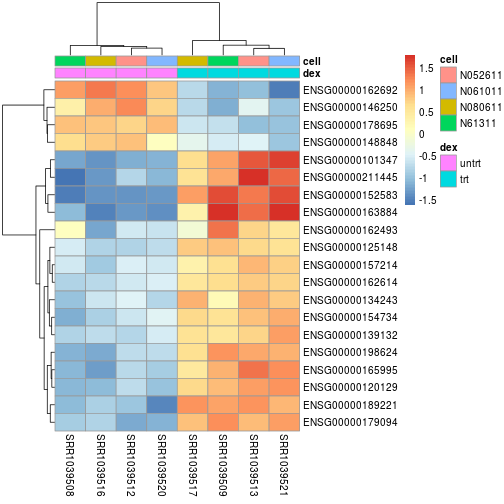
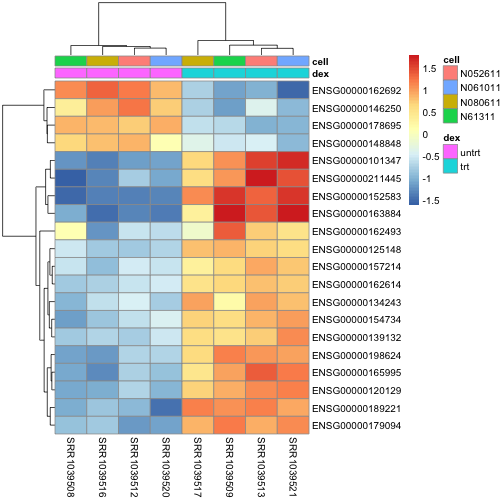
adding rnaseq_gene_level to book

Changed region(s): [[0.0, 0.0, 1.0, 1.0]]

diff --git a/pages/rnaseq_gene_level.md b/pages/rnaseq_gene_level.md
@@ -34,23 +34,8 @@ Next we create an *Rsamtools* variable which wraps our BAM files, and create a t
 
 ```r
 library(Rsamtools)
-```
-
-```
-## Loading required package: XVector
-## Loading required package: Biostrings
-```
-
-```r
 bam.list <- BamFileList(bam.files)
 library(GenomicFeatures)
-```
-
-```
-## Loading required package: AnnotationDbi
-```
-
-```r
 # for Bioc 3.0 use the commented out line
 # txdb <- makeTranscriptDbFromGFF(gtf.file, format="gtf")
 txdb <- makeTxDbFromGFF(gtf.file, format="gtf")
@@ -87,20 +72,8 @@ A similar function in the *Rsubread* library can be used to construct a count ma
 
 ```r
 library(Rsubread)
-```
-
-```
-## 
-## Attaching package: 'Rsubread'
-## 
-## The following object is masked from 'package:DEXSeq':
-## 
-##     featureCounts
-```
-
-```r
 # just run on the first two samples for demonstration
-fc <- featureCounts(bam.files[1:2], annot.ext=gtf.file,
+fc <- featureCounts(bam.files, annot.ext=gtf.file,
                     isGTFAnnotationFile=TRUE, 
                     isPaired=TRUE)
 ```
@@ -117,7 +90,13 @@ fc <- featureCounts(bam.files[1:2], annot.ext=gtf.file,
 ## 
 ## //========================== featureCounts setting ===========================\\
 ## ||                                                                            ||
-## ||             Input files : 2 BAM files                                      ||
+## ||             Input files : 8 BAM files                                      ||
+## ||                           P /Users/michael/Library/R/3.2/library/airwa ... ||
+## ||                           P /Users/michael/Library/R/3.2/library/airwa ... ||
+## ||                           P /Users/michael/Library/R/3.2/library/airwa ... ||
+## ||                           P /Users/michael/Library/R/3.2/library/airwa ... ||
+## ||                           P /Users/michael/Library/R/3.2/library/airwa ... ||
+## ||                           P /Users/michael/Library/R/3.2/library/airwa ... ||
 ## ||                           P /Users/michael/Library/R/3.2/library/airwa ... ||
 ## ||                           P /Users/michael/Library/R/3.2/library/airwa ... ||
 ## ||                                                                            ||
@@ -163,6 +142,72 @@ fc <- featureCounts(bam.files[1:2], annot.ext=gtf.file,
 ## ||    Input was converted to a format accepted by featureCounts.              ||
 ## ||    Total fragments : 7200                                                  ||
 ## ||    Successfully assigned fragments : 6712 (93.2%)                          ||
+## ||    Running time : 0.14 minutes                                             ||
+## ||                                                                            ||
+## || Process BAM file /Users/michael/Library/R/3.2/library/airway/extdata/S ... ||
+## ||    Paired-end reads are included.                                          ||
+## ||    Assign fragments (read pairs) to features...                            ||
+## ||    Found reads that are not properly paired.                               ||
+## ||    (missing mate or the mate is not the next read)                         ||
+## ||    2 reads have missing mates.                                             ||
+## ||    Input was converted to a format accepted by featureCounts.              ||
+## ||    Total fragments : 8536                                                  ||
+## ||    Successfully assigned fragments : 7910 (92.7%)                          ||
+## ||    Running time : 0.14 minutes                                             ||
+## ||                                                                            ||
+## || Process BAM file /Users/michael/Library/R/3.2/library/airway/extdata/S ... ||
+## ||    Paired-end reads are included.                                          ||
+## ||    Assign fragments (read pairs) to features...                            ||
+## ||    Found reads that are not properly paired.                               ||
+## ||    (missing mate or the mate is not the next read)                         ||
+## ||    1 read has missing mates.                                               ||
+## ||    Input was converted to a format accepted by featureCounts.              ||
+## ||    Total fragments : 7544                                                  ||
+## ||    Successfully assigned fragments : 7044 (93.4%)                          ||
+## ||    Running time : 0.14 minutes                                             ||
+## ||                                                                            ||
+## || Process BAM file /Users/michael/Library/R/3.2/library/airway/extdata/S ... ||
+## ||    Paired-end reads are included.                                          ||
+## ||    Assign fragments (read pairs) to features...                            ||
+## ||    Found reads that are not properly paired.                               ||
+## ||    (missing mate or the mate is not the next read)                         ||
+## ||    2 reads have missing mates.                                             ||
+## ||    Input was converted to a format accepted by featureCounts.              ||
+## ||    Total fragments : 8818                                                  ||
+## ||    Successfully assigned fragments : 8261 (93.7%)                          ||
+## ||    Running time : 0.13 minutes                                             ||
+## ||                                                                            ||
+## || Process BAM file /Users/michael/Library/R/3.2/library/airway/extdata/S ... ||
+## ||    Paired-end reads are included.                                          ||
+## ||    Assign fragments (read pairs) to features...                            ||
+## ||    Found reads that are not properly paired.                               ||
+## ||    (missing mate or the mate is not the next read)                         ||
+## ||    6 reads have missing mates.                                             ||
+## ||    Input was converted to a format accepted by featureCounts.              ||
+## ||    Total fragments : 11850                                                 ||
+## ||    Successfully assigned fragments : 11148 (94.1%)                         ||
+## ||    Running time : 0.16 minutes                                             ||
+## ||                                                                            ||
+## || Process BAM file /Users/michael/Library/R/3.2/library/airway/extdata/S ... ||
+## ||    Paired-end reads are included.                                          ||
+## ||    Assign fragments (read pairs) to features...                            ||
+## ||    Found reads that are not properly paired.                               ||
+## ||    (missing mate or the mate is not the next read)                         ||
+## ||    6 reads have missing mates.                                             ||
+## ||    Input was converted to a format accepted by featureCounts.              ||
+## ||    Total fragments : 5877                                                  ||
+## ||    Successfully assigned fragments : 5415 (92.1%)                          ||
+## ||    Running time : 0.14 minutes                                             ||
+## ||                                                                            ||
+## || Process BAM file /Users/michael/Library/R/3.2/library/airway/extdata/S ... ||
+## ||    Paired-end reads are included.                                          ||
+## ||    Assign fragments (read pairs) to features...                            ||
+## ||    Found reads that are not properly paired.                               ||
+## ||    (missing mate or the mate is not the next read)                         ||
+## ||    3 reads have missing mates.                                             ||
+## ||    Input was converted to a format accepted by featureCounts.              ||
+## ||    Total fragments : 10208                                                 ||
+## ||    Successfully assigned fragments : 9538 (93.4%)                          ||
 ## ||    Running time : 0.13 minutes                                             ||
 ## ||                                                                            ||
 ## ||                         Read assignment finished.                          ||
@@ -183,27 +228,27 @@ unname(fc$counts) # hide the colnames
 ```
 
 ```
-##       [,1] [,2]
-##  [1,]    0    0
-##  [2,]    0    0
-##  [3,]    0    0
-##  [4,]    0    0
-##  [5,] 2673 2031
-##  [6,]   38   28
-##  [7,]   58   55
-##  [8,] 1004 1253
-##  [9,] 1060 1291
-## [10,]    2    1
-## [11,]    2    0
-## [12,] 1588 1745
-## [13,]    1    0
-## [14,]    1    0
-## [15,]    0    0
-## [16,]    4   50
-## [17,]    0    0
-## [18,]    0    0
-## [19,]  218  257
-## [20,]    0    1
+##       [,1] [,2] [,3] [,4] [,5] [,6] [,7] [,8]
+##  [1,]    0    0    4    1    0    0    1    0
+##  [2,]    0    0    1    0    0    0    0    0
+##  [3,]    0    0    0    0    0    0    0    0
+##  [4,]    0    0    0    0    0    0    0    0
+##  [5,] 2673 2031 3263 1570 3446 3615 2171 1949
+##  [6,]   38   28   66   24   42   41   47   36
+##  [7,]   58   55   55   42   53   54   50   43
+##  [8,] 1004 1253 1122 1313 1100 1879  745 1534
+##  [9,] 1060 1291 1360 1286 1201 1725  917 1940
+## [10,]    2    1    2    1    2    7    1    4
+## [11,]    2    0    6    7    1    7    1    6
+## [12,] 1588 1745 1778 2007 2146 3349 1262 2561
+## [13,]    1    0    0    1    0    0    0    0
+## [14,]    1    0    0    0    0    0    0    0
+## [15,]    0    0    0    0    0    0    0    0
+## [16,]    4   50   19  543    1   10   14 1067
+## [17,]    0    0    0    1    0    0    0    0
+## [18,]    0    0    0    0    0    0    0    0
+## [19,]  218  257  234  248  267  461  206  398
+## [20,]    0    1    0    0    2    0    0    0
 ```
 
 Plot the first column from each function against each other (after matching the rows of the *featureCounts* matrix to the one returned by *summarizeOverlaps*.
@@ -329,13 +374,6 @@ This code chunk is not necessary, but helps to make nicer plots below with large
 # library(devtools)
 # install_github("ririzarr/rafalib")
 library(rafalib)
-```
-
-```
-## Loading required package: RColorBrewer
-```
-
-```r
 mypar()
 ```
 
@@ -363,13 +401,9 @@ We can also make a *DESeqDataSet* from a count matrix and column data.
 
 
 ```r
-dds2 <- DESeqDataSetFromMatrix(fc$counts, 
-                               colData=sample.table, 
-                               design=~ cell + dex)
-```
-
-```
-## Error in validObject(.Object): invalid class "SummarizedExperiment" object: 'colData' nrow differs from 'assays' ncol
+dds.fc <- DESeqDataSetFromMatrix(fc$counts, 
+                                 colData=sample.table, 
+                                 design=~ cell + dex)
 ```
 
 ### Normalization for sequencing depth
@@ -893,13 +927,6 @@ A heatmap of the top genes:
 
 ```r
 library(pheatmap)
-```
-
-```
-## Error in library(pheatmap): there is no package called 'pheatmap'
-```
-
-```r
 topgenes <- head(rownames(resSort),20)
 mat <- assay(rld)[topgenes,]
 mat <- mat - rowMeans(mat)
@@ -907,9 +934,7 @@ df <- as.data.frame(colData(dds)[,c("dex","cell")])
 pheatmap(mat, annotation_col=df)
 ```
 
-```
-## Error in eval(expr, envir, enclos): could not find function "pheatmap"
-```
+![plot of chunk unnamed-chunk-44](figure/rnaseq_gene_level-unnamed-chunk-44-1.png) 
 
 ### Getting alternate annotations
 
@@ -918,13 +943,6 @@ We can then check the annotation of these highly significant genes:
 
 ```r
 library(org.Hs.eg.db)
-```
-
-```
-## Loading required package: DBI
-```
-
-```r
 keytypes(org.Hs.eg.db)
 ```
 
@@ -1042,33 +1060,6 @@ If we suppose that we didn't know about the different cell-lines in the experime
 
 ```r
 library(sva)
-```
-
-```
-## Loading required package: mgcv
-## Loading required package: nlme
-## 
-## Attaching package: 'nlme'
-## 
-## The following object is masked from 'package:Biostrings':
-## 
-##     collapse
-## 
-## The following object is masked from 'package:IRanges':
-## 
-##     collapse
-## 
-## This is mgcv 1.8-6. For overview type 'help("mgcv-package")'.
-## Loading required package: genefilter
-## 
-## Attaching package: 'genefilter'
-## 
-## The following object is masked from 'package:base':
-## 
-##     anyNA
-```
-
-```r
 idx <- rowMeans(counts(dds)) > 1
 dat <- counts(dds)[idx,]
 mod <- model.matrix(~ dex, colData(dds))
@@ -1131,24 +1122,24 @@ sessionInfo()
 ## [8] methods   base     
 ## 
 ## other attached packages:
-##  [1] sva_3.14.0              genefilter_1.50.0      
-##  [3] mgcv_1.8-6              nlme_3.1-120           
-##  [5] org.Hs.eg.db_3.1.2      RSQLite_1.0.0          
-##  [7] DBI_0.3.1               ggplot2_1.0.1          
-##  [9] vsn_3.36.0              rafalib_0.0.9          
-## [11] RColorBrewer_1.1-2      Rsubread_1.18.0        
-## [13] GenomicAlignments_1.4.1 GenomicFeatures_1.20.0 
-## [15] AnnotationDbi_1.30.1    Rsamtools_1.20.1       
-## [17] Biostrings_2.36.0       XVector_0.8.0          
-## [19] airway_0.102.0          DEXSeq_1.14.0          
-## [21] DESeq2_1.8.0            RcppArmadillo_0.5.000.0
-## [23] Rcpp_0.11.5             GenomicRanges_1.20.3   
-## [25] GenomeInfoDb_1.4.0      IRanges_2.2.1          
-## [27] S4Vectors_0.6.0         Biobase_2.28.0         
-## [29] BiocGenerics_0.14.0     BiocParallel_1.2.1     
-## [31] pasilla_0.8.0           testthat_0.9.1         
-## [33] devtools_1.7.0          knitr_1.10             
-## [35] BiocInstaller_1.18.1   
+##  [1] pheatmap_1.0.2          sva_3.14.0             
+##  [3] genefilter_1.50.0       mgcv_1.8-6             
+##  [5] nlme_3.1-120            org.Hs.eg.db_3.1.2     
+##  [7] RSQLite_1.0.0           DBI_0.3.1              
+##  [9] ggplot2_1.0.1           vsn_3.36.0             
+## [11] rafalib_0.0.9           RColorBrewer_1.1-2     
+## [13] Rsubread_1.18.0         GenomicAlignments_1.4.1
+## [15] GenomicFeatures_1.20.0  AnnotationDbi_1.30.1   
+## [17] Rsamtools_1.20.1        Biostrings_2.36.0      
+## [19] XVector_0.8.0           airway_0.102.0         
+## [21] DEXSeq_1.14.0           DESeq2_1.8.0           
+## [23] RcppArmadillo_0.5.000.0 Rcpp_0.11.5            
+## [25] GenomicRanges_1.20.3    GenomeInfoDb_1.4.0     
+## [27] IRanges_2.2.1           S4Vectors_0.6.0        
+## [29] Biobase_2.28.0          BiocGenerics_0.14.0    
+## [31] BiocParallel_1.2.1      pasilla_0.8.0          
+## [33] testthat_0.9.1          devtools_1.7.0         
+## [35] knitr_1.10              BiocInstaller_1.18.1   
 ## 
 ## loaded via a namespace (and not attached):
 ##  [1] splines_3.2.0         Formula_1.2-1         statmod_1.4.21       
